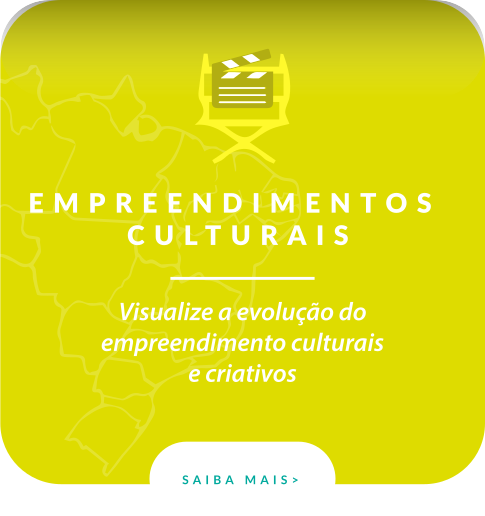
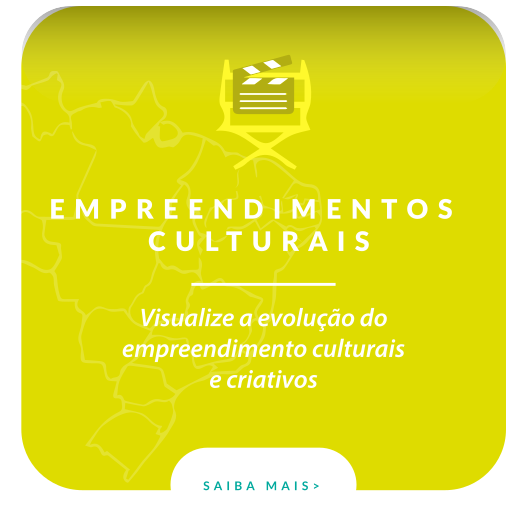
Corrigir animação de boxes de eixo na landing page

Changed region(s): [[0.0, 0.0, 1.0, 0.9612], [0.3711, 0.8992, 0.6186, 0.9612], [0.3402, 0.8372, 0.6495, 0.8682]]

diff --git a/src/pages/Landing/styles.ts b/src/pages/Landing/styles.ts
@@ -88,13 +88,17 @@ export const Page = styled.div`
 
         img {
           width: 75%;
+          margin-bottom: 12.5%; // 25% dividido em 2, uma parte em cima e outra em baixo
+          margin-top: 12.5%;
           cursor: pointer;
 
-          transition: width 0.4s;
+          transition: all 0.4s;
         }
 
         img: hover {
           width: 100%;
+          margin-bottom: 0%;
+          margin-top: 0%;
           max-height: 100%;
         }
       }
@@ -111,7 +115,6 @@ export const Page = styled.div`
       background-position-x: right;
       background-position-y: bottom;
       height: 920px;
-      margin-top: 65px;
       padding: 0;
 
       .question-title {
